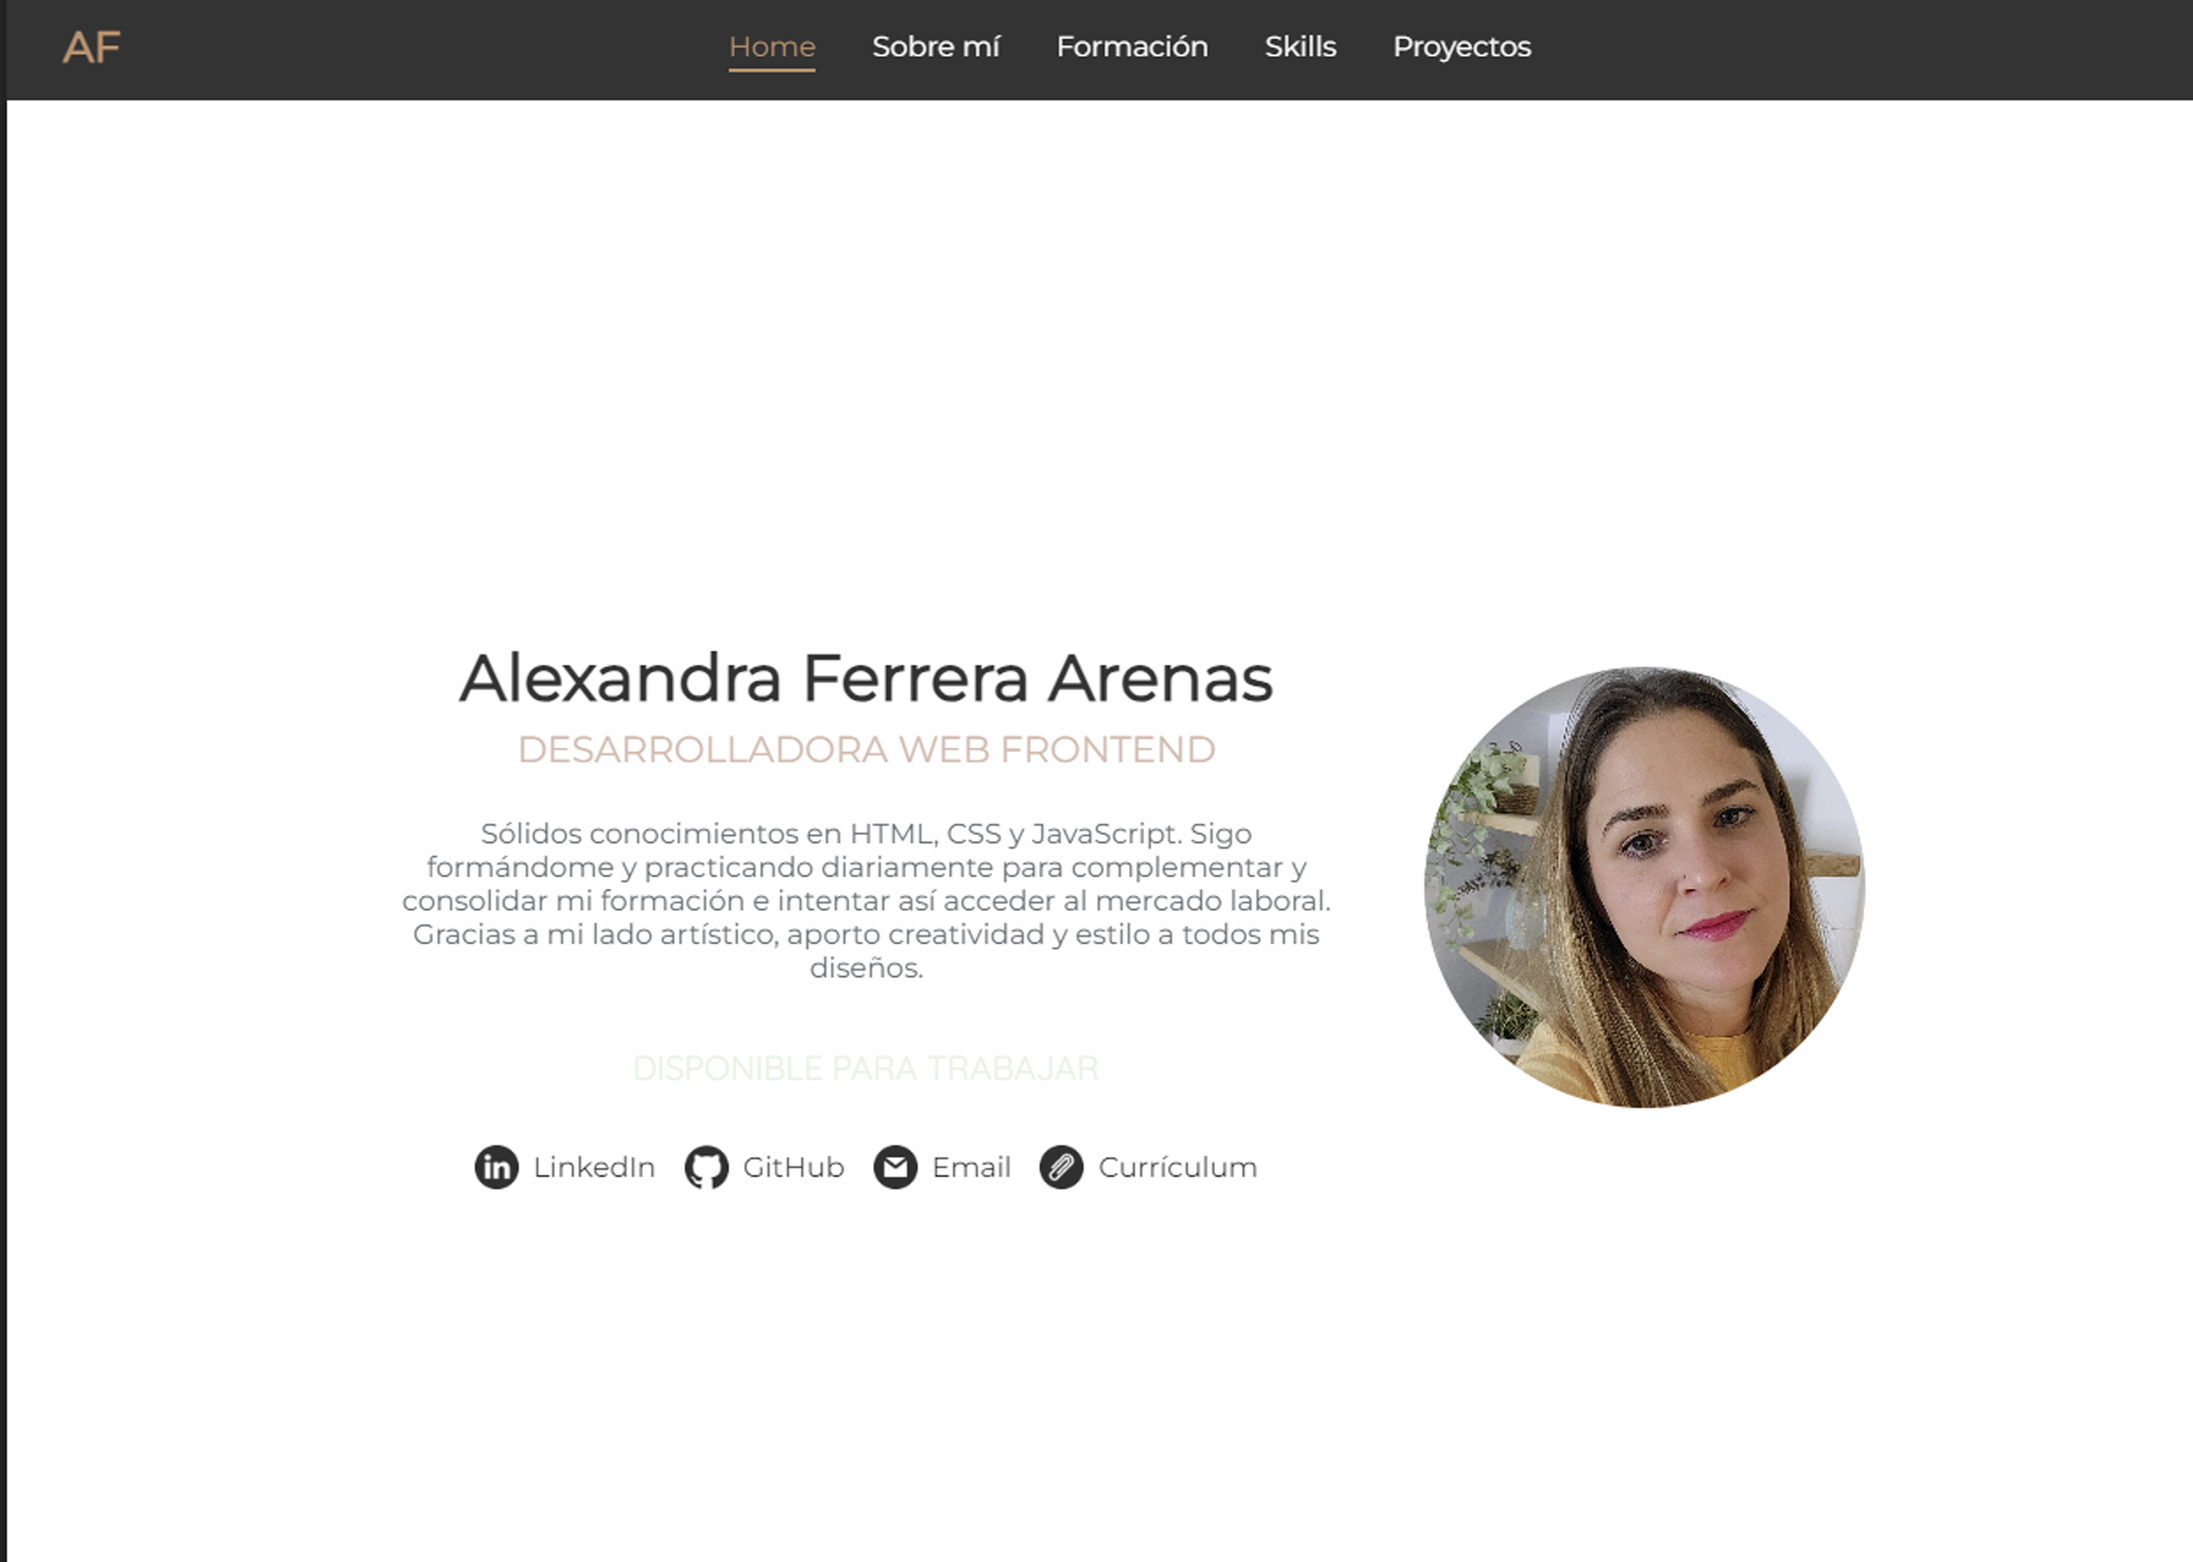
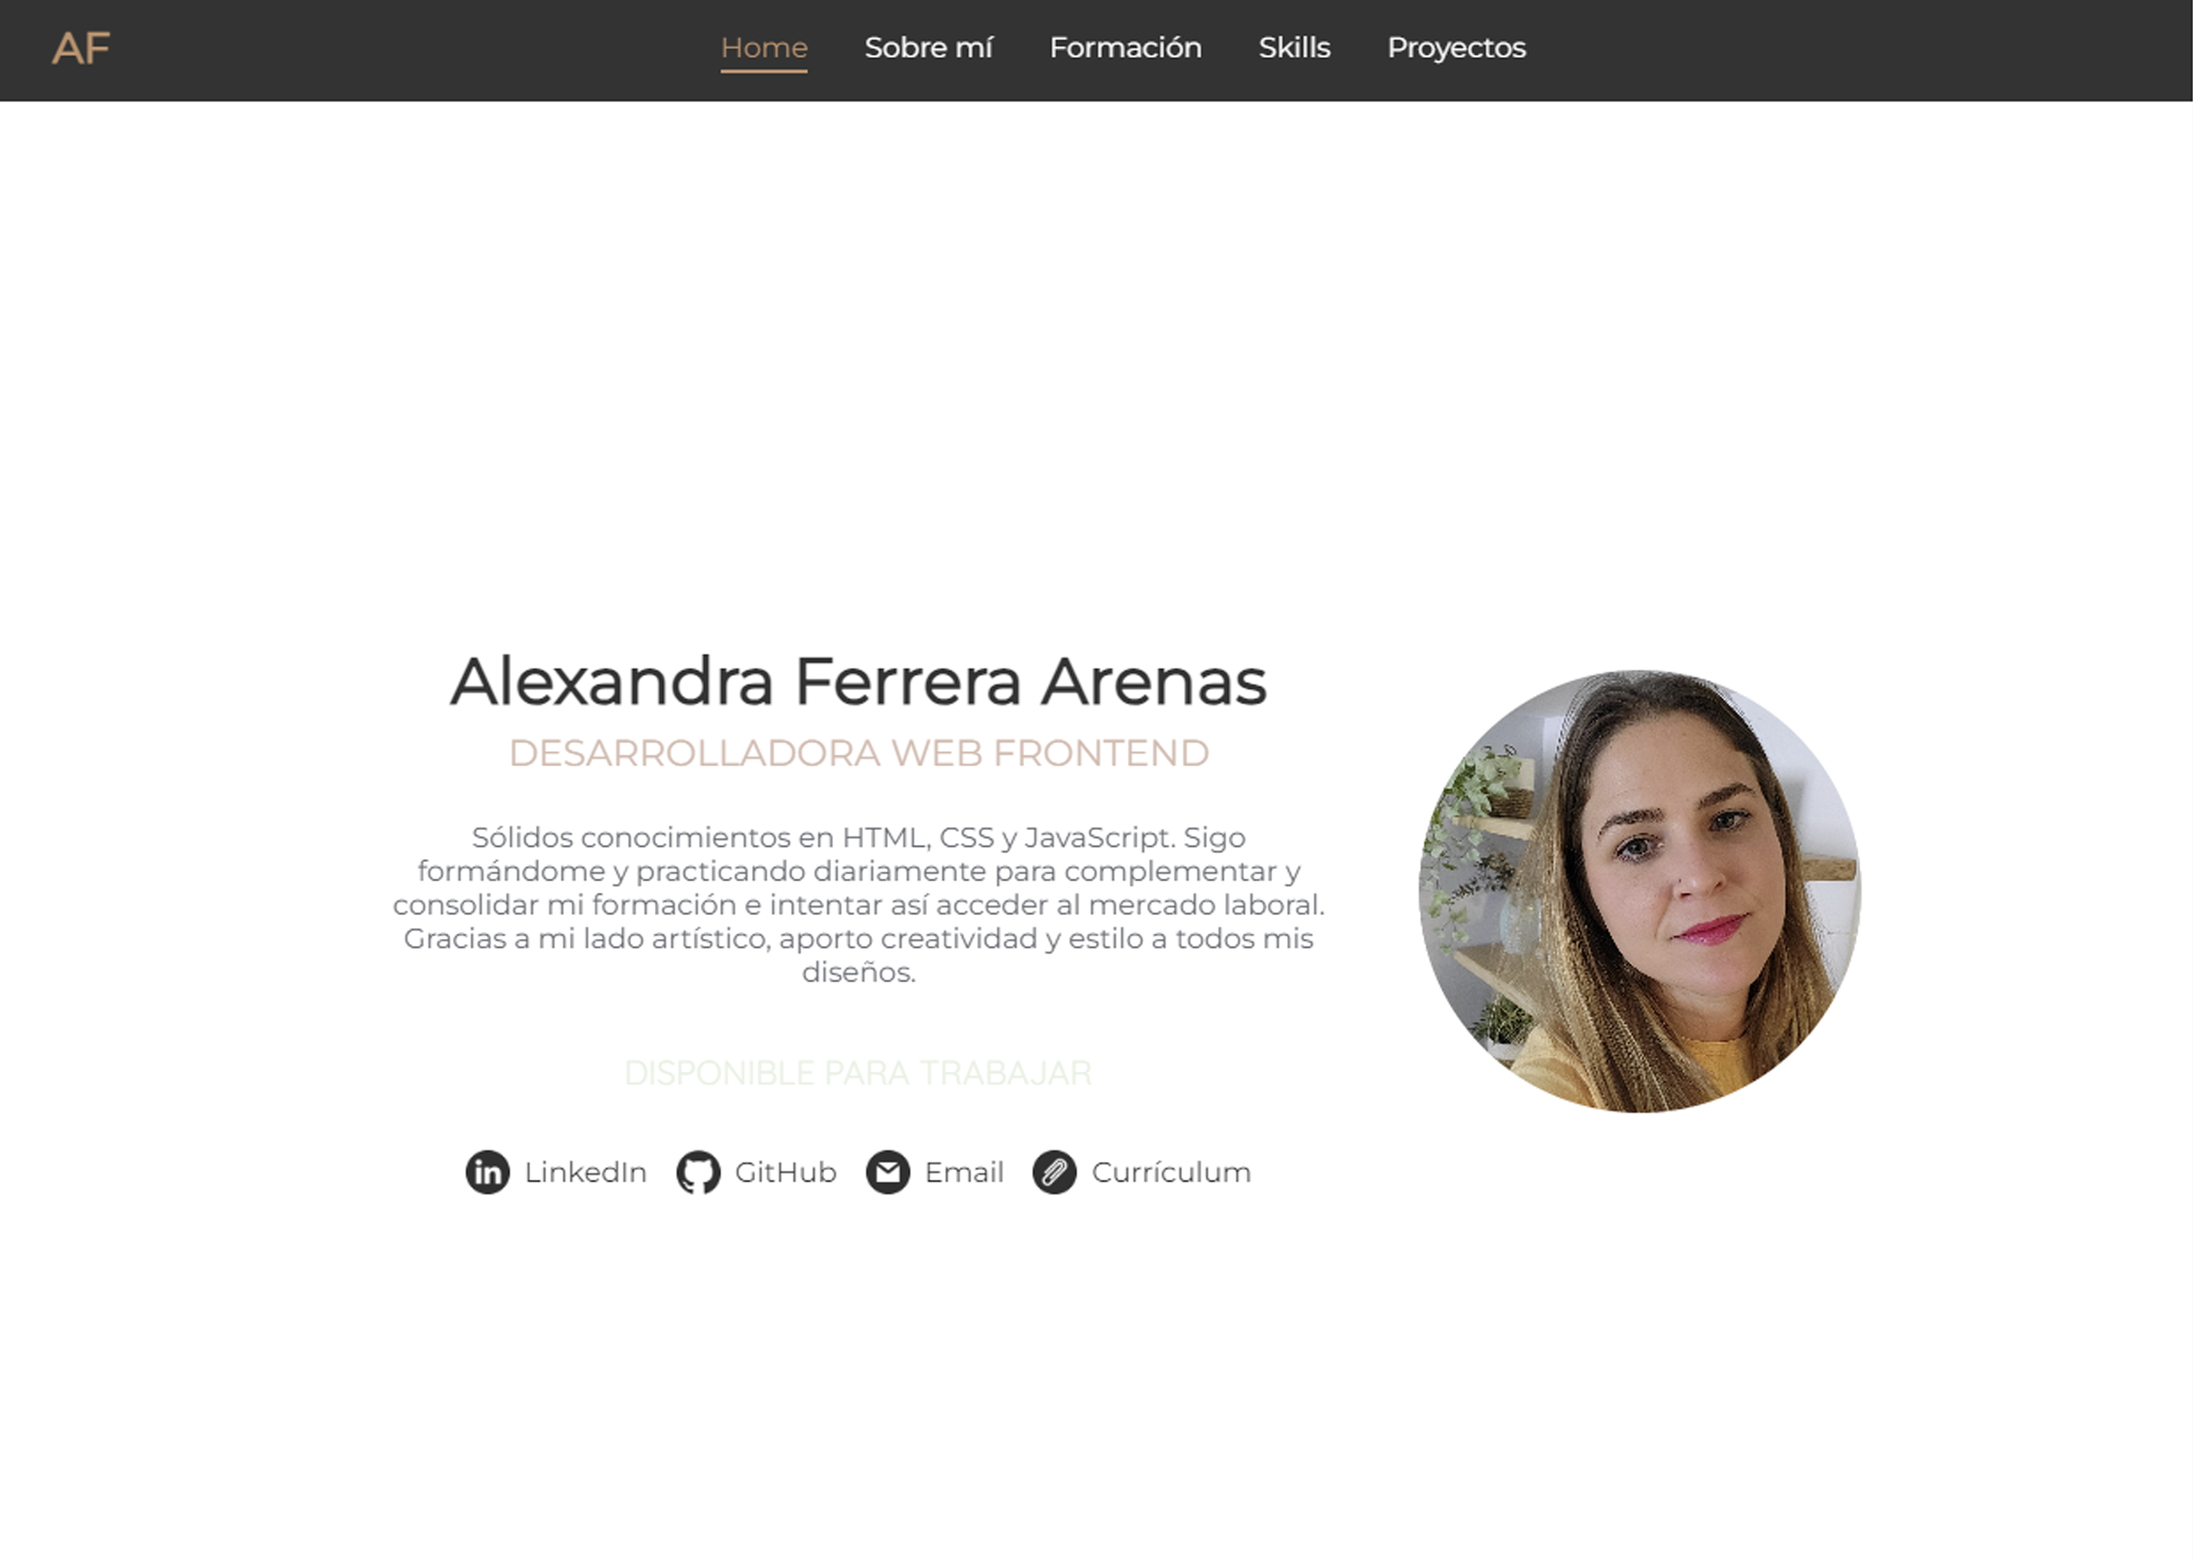
cambios grales

diff --git a/index.html b/index.html
@@ -1,5 +1,5 @@
 <!DOCTYPE html>
-<html lang="es">
+<html lang="es-ES">
 
 <head>
     <meta charset="UTF-8">
@@ -35,12 +35,11 @@
                     <!-- <br> MAQUETACIÓN WEB || DISEÑO UX || ILUSTRACIÓN -->
                 </p>
                 <p id="descripcion">
-                    Sólidos conocimientos en HTML, CSS y JavaScript. Sigo formándome y practicando diariamente para
+                    Jerez de la Frontera, Cádiz
+                    <br><br>Sólidos conocimientos en HTML, CSS y JavaScript. Sigo formándome y practicando diariamente para
                     complementar y consolidar mi formación e intentar así acceder al mercado laboral.
                     <br> Gracias a mi lado artístico, aporto creatividad y estilo a todos mis diseños.
                 </p>
-                <!-- Estado de disponibilidad -->
-                <div class="availability">DISPONIBLE PARA TRABAJAR</div>
                 <!-- Enlaces a redes sociales y contacto -->
                 <div class="social-links">
                     <a href="https://www.linkedin.com/in/alexandra-ferrera-arenas/" target="_blank">
@@ -59,6 +58,8 @@
                         <img src="img/icons/sitio-web.png" alt="Alexandra Ferrera De Arte"> Web
                     </a> -->
                 </div>
+                <!-- Estado de disponibilidad -->
+                <div class="availability">DISPONIBLE PARA TRABAJAR</div>
             </div>
             <!-- Imagen personal -->
             <div class="intro-image">
@@ -158,17 +159,19 @@
                         <details>
                             <summary>Mostrar / ocultar detalles</summary>
                             <p class="text-sep"> Formación profesional diseñada por Google para obtener el Certificado
-                            Profesional de Diseño de Experiencia de Usuario (UX). Está compuesta por 7 cursos, con una
-                            duración total aproximada de 6 meses. Se realiza de manera online en la plataforma de
-                            formación de Coursera. Cada uno de los siete cursos que componen el Certificado son:</p>
+                                Profesional de Diseño de Experiencia de Usuario (UX). Está compuesta por 7 cursos, con
+                                una
+                                duración total aproximada de 6 meses. Se realiza de manera online en la plataforma de
+                                formación de Coursera. Cada uno de los siete cursos que componen el Certificado son:</p>
                             <p>· Aspectos básicos del diseño de la experiencia del usuario.</p>
                             <p>· Primeros pasos en el proceso de diseño de UX: Empatizar, definir e idear.</p>
                             <p>· Crear esquemas de página y prototipos de baja fidelidad.</p>
                             <p>· Llevar a cabo investigaciones en UX.</p>
                             <p>· Crear prototipos y diseños de alta fidelidad en Figma.</p>
                             <p>· Crea interfaces de usuario (IU) dinámicas para sitios web.</p>
-                        <p>· Diseñar una experiencia del usuario de una iniciativa de interés público y prepararse para
-                            el trabajo.</p>
+                            <p>· Diseñar una experiencia del usuario de una iniciativa de interés público y prepararse
+                                para
+                                el trabajo.</p>
                         </details>
                     </div>
                 </div>
@@ -183,10 +186,12 @@
                         <details>
                             <summary>Mostrar / ocultar detalles</summary>
                             <p class="text-sep">He aprendido los fundamentos de Python, su sintaxis, programación,
-                            algoritmos, POO, pruebas y algunos conceptos de Django, además de repasar y practicar mis
-                            conocimientos sobre desarrollo web. El curso fue tutorizado por varios coordinadores de IBM.
-                            Las clases se impartían en directo (masterclases, tutorías, sesiones de empleo, etc.) y
-                            había que superar varios ejercicios y cuestionarios.
+                                algoritmos, POO, pruebas y algunos conceptos de Django, además de repasar y practicar
+                                mis
+                                conocimientos sobre desarrollo web. El curso fue tutorizado por varios coordinadores de
+                                IBM.
+                                Las clases se impartían en directo (masterclases, tutorías, sesiones de empleo, etc.) y
+                                había que superar varios ejercicios y cuestionarios.
                             </p>
                         </details>
                     </div>
@@ -208,9 +213,9 @@
     </section>
 
     <section id="skills">
-        <!-- Sección 'Habilidades técnicas' -->
+        <!-- Sección 'Habilidades duras' -->
         <div class="about-container">
-            <h2>Habilidades técnicas</h2>
+            <h2>Habilidades duras</h2>
             <!-- Descripción de habilidades -->
             <p class="text-sep">Además de contar con una sólida formación certificada en HTML, CSS y JavaScript, mi
                 inquietud me impulsa
@@ -218,6 +223,15 @@
                 Angular y Diseño UX, con el objetivo de avanzar en mi carrera como Desarrolladora Web Frontend y poder
                 pronto
                 dedicarme a ello profesionalmente.
+            </p>
+            <p class="text-sep"> En mi rol como desarrolladora web, creo que puedo aportar mucho gracias a la
+                combinación de mis habilidades artísticas y técnicas. Tengo un gran sentido estético, lo
+                que me hace apasionarme por el FrontEnd y el diseño web.
+            </p>
+            <p class="text-sep">Desde pequeña, mi curiosidad por la
+                tecnología me ha llevado a explorar a fondo el software en general, desarrollando una sólida
+                comprensión y adquiriendo un dominio notable de las
+                tecnologías. Aprendo muy rápido y siempre he sobresalido en estos temas respecto a los demás.
             </p>
             <!-- Iconos de habilidades -->
             <div class="skills-container">
@@ -276,18 +290,14 @@
             <br>
             <h2>Habilidades blandas</h2>
             <!-- Descripción de habilidades -->
-            <p class="text-sep"> En mi rol como desarrolladora web, creo que puedo aportar mucho gracias a la
-                combinación de mis habilidades artísticas y técnicas. Tengo un gran sentido estético, lo
-                que me hace apasionarme por el front end y el desarrollo visual. Desde pequeña, mi curiosidad por la
-                tecnología me ha llevado a explorar mis ordenadores, desarrollando una sólida
-                comprensión y adquiriendo un dominio notable de las
-                tecnologías. Aprendo muy rápido y siempre he sobresalido en estos temas respecto a los demás.
-            </p>
+
             <p class="text-sep">En mi formación, fui una de las mejores de mi clase, con notas que siempre superaban el
                 9. Entendía
                 rápidamente las clases, participaba activamente y aportaba en las discusiones, a pesar de no haber
                 codificado nunca antes, mi curva de aprendizaje fue fluida y hacia arriba rápidamente. </p>
-            <p class="text-sep">Mi actitud hacia el trabajo ha sido siempre de gran profesionalidad y competencia. Me
+            <p class="text-sep">Mi actitud ante la vida es muy positiva, creo que siempre avanzo con fuerza hacia
+                adelante, confío en mí y en mi voluntad de conseguir objetivos. Soy valiente, por ejemplo a los 19 años me fui de mi ciudad en Madrid para intentar una vida donde resido actualmente Ante el trabajo ha sido siempre de gran
+                profesionalidad y competencia. Me
                 gusta trabajar de
                 manera eficaz, soy organizada, perfeccionista y una excelente compañera de equipo. Me crezco ante las
                 adversidades y disfruto tanto del trabajo en grupo como de trabajar completamente sola. Estoy segura de
@@ -305,8 +315,8 @@
             <h2>Proyectos Seleccionados</h2>
             <!-- Descripción de proyectos -->
             <p class="text-sep">Una selección de mis proyectos, que incluye sitios web publicados, ejercicios de cursos
-                y proyectos personales. Todos ellos han sido desarrollados gracias a mis conocimientos y las tecnologías
-                que manejo, además de estar inmersa en el desarrollo de este propio portafolio.
+                y proyectos personales. Todos ellos han sido desarrollados desde cero por mí, gracias a todo lo
+                aprendido, y que seguiré actualizando con nuevos proytectos.
             </p>
             <!-- Galería de proyectos -->
             <div class="projects-gallery">
@@ -353,9 +363,9 @@
                             </a> -->
                         </div>
                     </div>
-    
+
                 </div>
-                
+
                 <!-- Proyecto Web de Arte -->
                 <div class="project">
                     <div class="project-image slider" id="slider-dearte">
@@ -455,11 +465,11 @@
                     </div>
                     <div class="project-description">
                         <h3>Ejercicios y exámenes de clase</h3>
-                        <p>Estos son algunos de los ejercicios y exámenes prácticos que realicé durante el curso del
-                            Certificado de Profesionalidad en Confección y Publicación de Páginas Web.</p>
-                        <p>Practicaba una buena estructura y semántica HTML, utilizando las nuevas funciones de HTML 5,
-                            como las mejoras en los formularios. Además, profundizaba en CSS, replicando sitios web,
-                            creándolos desde cero y modificando plantillas.</p>
+                        <p>Algunos de los ejercicios y exámenes prácticos que realicé durante el curso del
+                            Certificado de Profesionalidad 'Confección y Publicación de Páginas Web'.</p>
+                        <p>Según aprendía la teoría profundizaba en los conocimientos aprendiendo de manera práctica.
+                        </p>
+                        <p>En mi perfil de GitHub tengo varios repositorios con estos ejercicios y su explicación.</p>
                         <div class="skills">
                             <span>HTML 5</span>
                             <span>CSS</span>
@@ -468,6 +478,43 @@
                         </div>
                         <div class="linkedin-button">
                             <a href="https://github.com/iSaan86?tab=repositories" target="_blank" class="button">
+                                <span>VER CÓDIGO</span>
+                            </a>
+                        </div>
+
+                    </div>
+                </div>
+                <!-- Proyecto Mi portafolio -->
+                <div class="project">
+                    <div class="project-image slider" id="slider-tareas">
+                        <div class="slide active">
+                            <img src="img/image/captura1.jpg" alt="Imagen del proyecto 1">
+                        </div>
+                        <div class="slide">
+                            <img src="img/image/captura2.jpg" alt="Imagen del proyecto 2">
+                        </div>
+                        <div class="slide">
+                            <img src="img/image/captura3.jpg" alt="Imagen del proyecto 2">
+                        </div>
+
+                        <div class="slider-controls">
+                            <button class="prev">❮</button>
+                            <button class="next">❯</button>
+                        </div>
+                    </div>
+                    <div class="project-description">
+                        <h3>Mi Portafolio</h3>
+                        <p> Este mismo documento, que se trata de mi perfil profesional como Desarrolladora Web
+                            Frontend.
+                            Desarrollado por mí 100% desde cero con HTML, CSS y JavaScript.</p>
+                        <div class="skills">
+                            <span>HTML 5</span>
+                            <span>CSS</span>
+                            <span>JavaScript</span>
+                            <span>Photoshop</span>
+                        </div>
+                        <div class="linkedin-button">
+                            <a href="https://github.com/iSaan86/mi_Portafolio" target="_blank" class="button">
                                 <span>VER CÓDIGO</span>
                             </a>
                         </div>

diff --git a/css/estilo.css b/css/estilo.css
@@ -132,7 +132,7 @@ main {
 }
 
 .intro-text p {
-  font-size: 1.3rem;
+  font-size: 1.4rem;
   color: var(--accent-color);
   margin-bottom: 1.2rem;
   margin-top: -0.6rem;
@@ -156,7 +156,8 @@ main {
 
 /* Estilo de disponibilidad */
 .availability {
-  font-size: 1.2rem;
+  font-size: 1.4rem;
+  margin-top: 2rem;
   font-family: "Quicksand", sans-serif;
   color: rgb(165, 199, 151);
   animation: blink 1s infinite;
@@ -186,7 +187,7 @@ h2 {
   display: flex;
   justify-content: center;
   gap: 1rem;
-  margin-top: 2rem;
+  margin: 2.5rem 0;
   padding: 0 1rem;
 }
 
